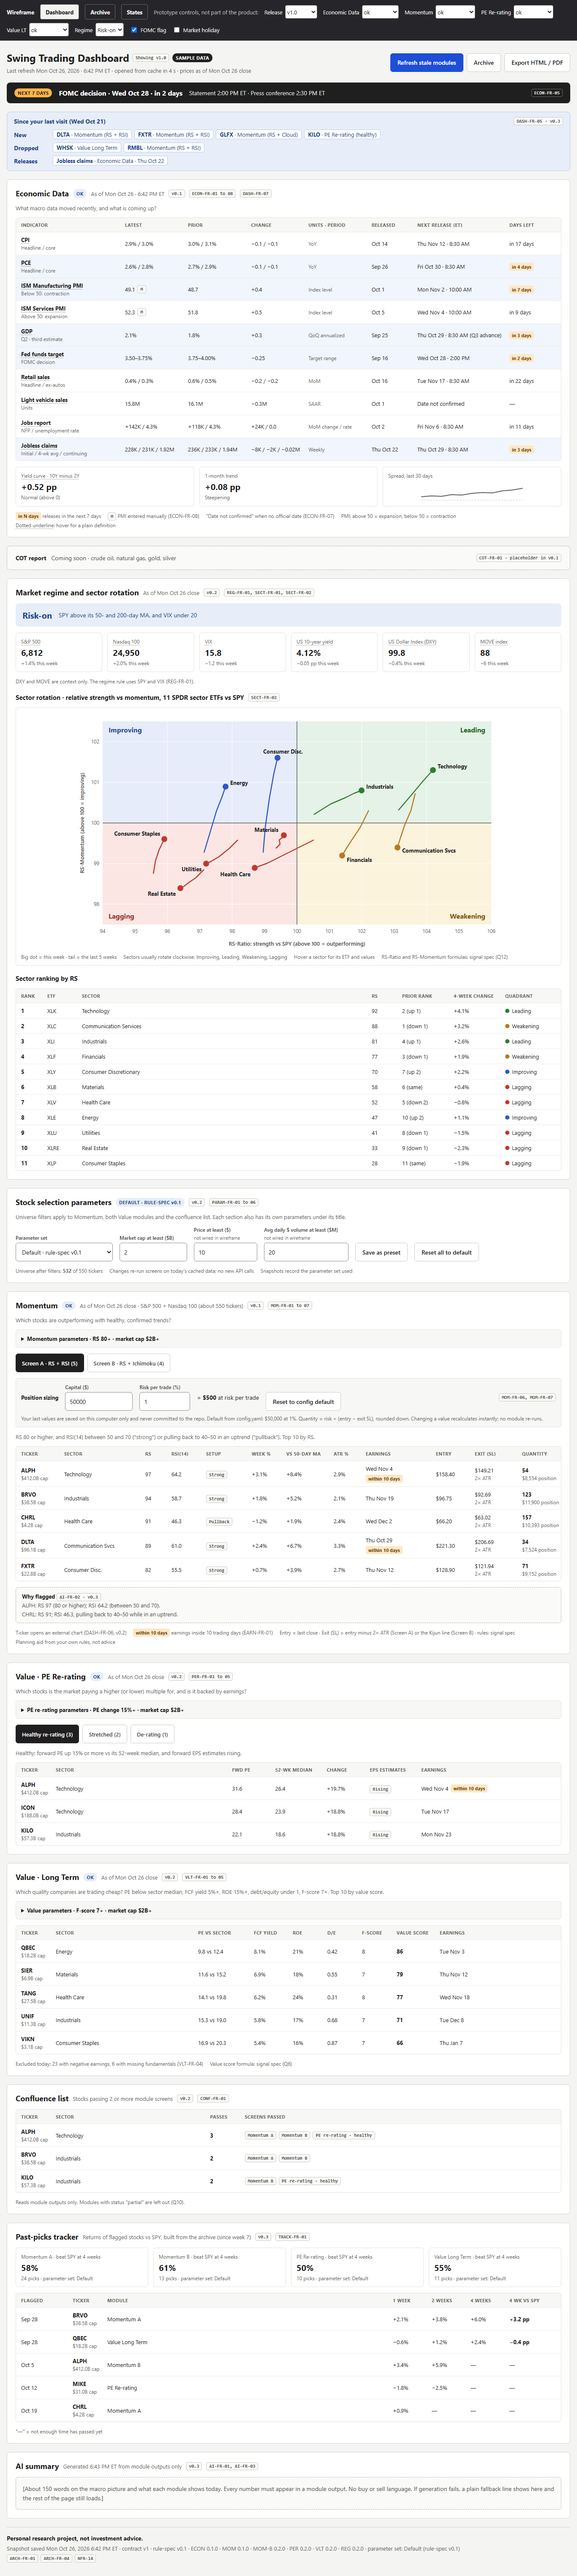
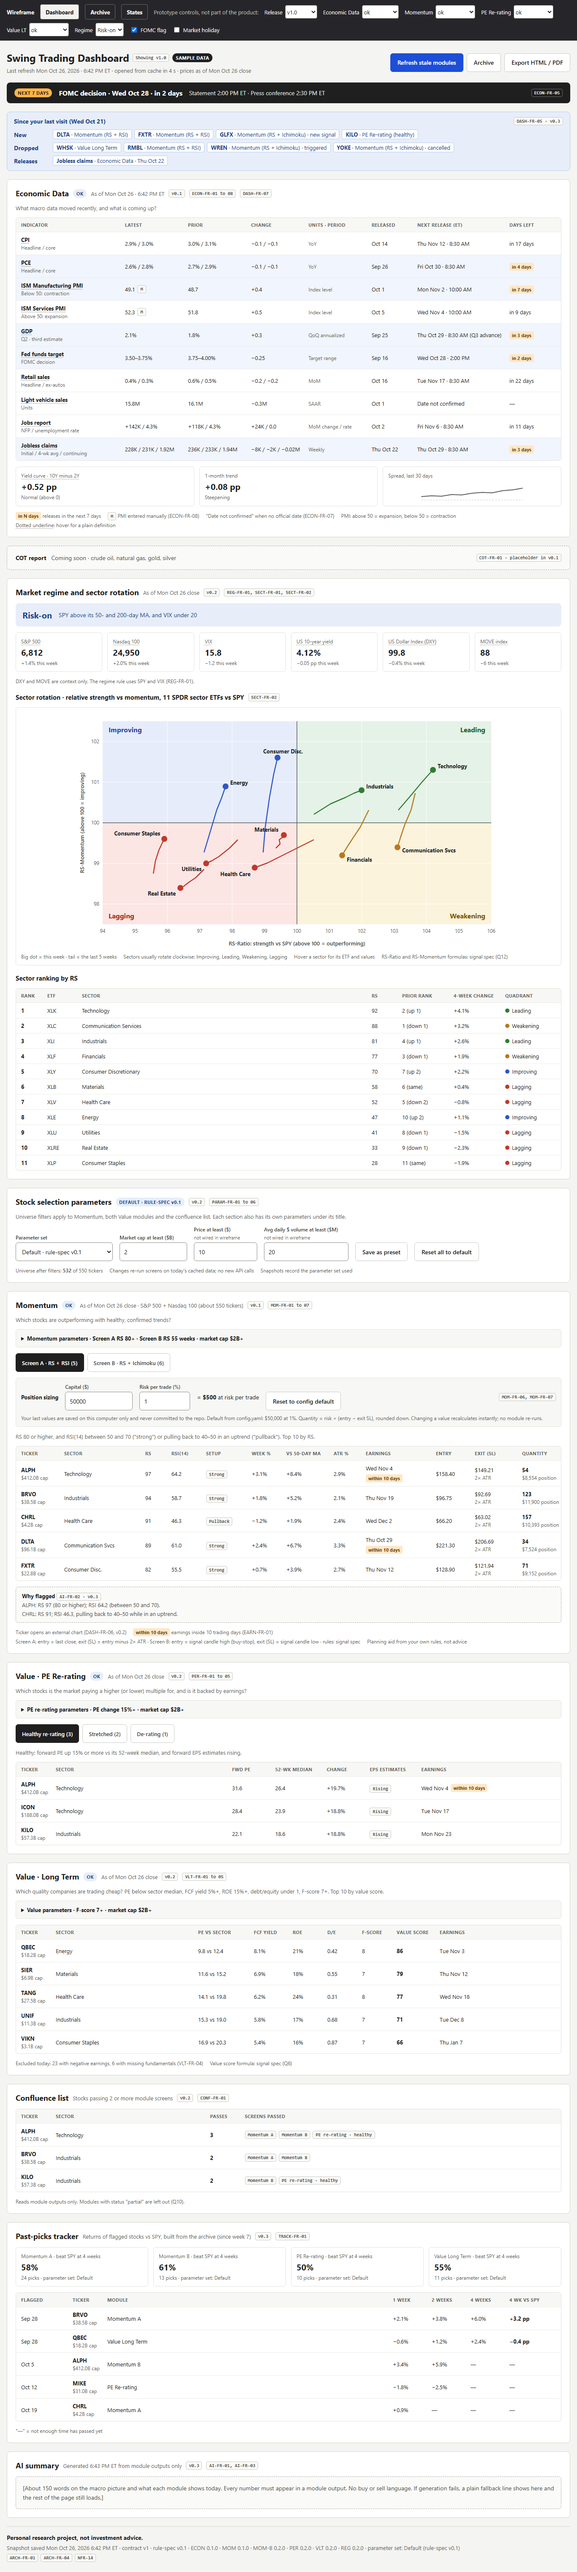
docs: update wireframe Screen B to signal spec 4 (#12)

diff --git a/docs/wireframes/prototype.html b/docs/wireframes/prototype.html
@@ -114,7 +114,6 @@ a{color:#1D4ED8}a:hover{color:#1E3A8A}
   var QCOL = { Leading: '#2E7D32', Weakening: '#B7791F', Improving: '#2F56C6', Lagging: '#C0392B' };
   var CAPS = { ALPH: 412, BRVO: 38.5, CHRL: 4.2, DLTA: 96.1, ECHO: 1.6, FXTR: 22.8, GLFX: 2.4, KILO: 57.3, ICON: 188, MIKE: 31.0, NOVA: 14.7, OSCR: 9.6, PAPA: 1.4, QBEC: 18.2, SIER: 6.9, TANG: 27.5, UNIF: 11.3, VIKN: 3.1 };
   var ENTRY = { ALPH: 158.40, BRVO: 96.75, CHRL: 66.20, DLTA: 221.30, ECHO: 50.60, FXTR: 128.90, GLFX: 74.10, KILO: 112.50 };
-  var KIJUN = { ALPH: 147.60, BRVO: 91.20, GLFX: 69.85, KILO: 105.30 };
   var MOM_A = [
     { t: 'ALPH', sector: 'Technology', rs: 97, rsi: '64.2', tag: 'Strong', wk: '+3.1%', ma: '+8.4%', atr: 2.9, earn: 'Wed Nov 4', soon: true },
     { t: 'BRVO', sector: 'Industrials', rs: 94, rsi: '58.7', tag: 'Strong', wk: '+1.8%', ma: '+5.2%', atr: 2.1, earn: 'Thu Nov 19', soon: false },
@@ -123,12 +122,22 @@ a{color:#1D4ED8}a:hover{color:#1E3A8A}
     { t: 'ECHO', sector: 'Financials', rs: 86, rsi: '44.8', tag: 'Pullback', wk: '−0.9%', ma: '+1.1%', atr: 1.8, earn: 'Fri Jan 15', soon: false },
     { t: 'FXTR', sector: 'Consumer Disc.', rs: 82, rsi: '55.5', tag: 'Strong', wk: '+0.7%', ma: '+3.9%', atr: 2.7, earn: 'Thu Nov 12', soon: false }
   ];
+  // Screen B: weekly signal candles (Spec 4). Last completed week = Fri Oct 23.
   var MOM_B = [
-    { t: 'ALPH', sector: 'Technology', rs: 97, brk: 'Fresh · 3 days ago', earn: 'Wed Nov 4', soon: true },
-    { t: 'BRVO', sector: 'Industrials', rs: 94, brk: '—', earn: 'Thu Nov 19', soon: false },
-    { t: 'GLFX', sector: 'Materials', rs: 88, brk: 'Fresh · 1 day ago', earn: 'Tue Nov 10', soon: false },
-    { t: 'KILO', sector: 'Industrials', rs: 84, brk: '—', earn: 'Mon Nov 23', soon: false }
+    { t: 'ALPH', sector: 'Technology', status: 'Pending', wk: 'Oct 16', pend: 1, rs: 1.142, rsPrev: 0.996, rsCross: 'Oct 16', close: 158.40, cl: 151.90, hi: 160.20, lo: 149.80, earn: 'Wed Nov 4', soon: true },
+    { t: 'NOVA', sector: 'Technology', status: 'New', wk: 'Oct 23', pend: 0, rs: 1.031, rsPrev: 1.004, rsCross: 'Oct 16', close: 47.90, cl: 46.10, hi: 48.60, lo: 45.20, earn: 'Wed Dec 9', soon: false },
+    { t: 'KILO', sector: 'Industrials', status: 'New', wk: 'Oct 23', pend: 0, rs: 1.098, rsPrev: 0.987, rsCross: 'Oct 23', close: 112.50, cl: 108.40, hi: 114.60, lo: 106.90, earn: 'Mon Nov 23', soon: false },
+    { t: 'BRVO', sector: 'Industrials', status: 'Pending', wk: 'Oct 9', pend: 2, rs: 1.012, rsPrev: 0.991, rsCross: 'Oct 9', close: 96.75, cl: 94.30, hi: 98.40, lo: 92.10, earn: 'Thu Nov 19', soon: false },
+    { t: 'GLFX', sector: 'Materials', status: 'New', wk: 'Oct 23', pend: 0, rs: 1.067, rsPrev: 0.982, rsCross: 'Oct 23', close: 74.10, cl: 71.60, hi: 75.90, lo: 70.20, earn: 'Tue Nov 10', soon: false },
+    { t: 'SIER', sector: 'Materials', status: 'Pending', wk: 'Oct 16', pend: 1, rs: 1.020, rsPrev: 0.994, rsCross: 'Oct 16', close: 40.10, cl: 39.20, hi: 41.30, lo: 38.60, earn: 'Thu Nov 12', soon: false }
   ];
+  // group by sector (sector with the highest-RS stock first), RS high to low within each sector
+  function groupBySector(rows) {
+    var g = {};
+    rows.forEach(function (x) { (g[x.sector] = g[x.sector] || []).push(x); });
+    return Object.keys(g).map(function (k) { return { sector: k, rows: g[k].sort(function (a, b) { return b.rs - a.rs; }) }; })
+      .sort(function (a, b) { return b.rows[0].rs - a.rows[0].rs; });
+  }
   var PER = {
     healthy: { label: 'Healthy re-rating', rule: function (t) { return 'Healthy: forward PE up ' + t + '% or more vs its 52-week median, and forward EPS estimates rising.'; }, rows: [
       { t: 'ALPH', sector: 'Technology', pe: '31.6', med: '26.4', chg: 19.7, eps: 'Rising', earn: 'Wed Nov 4', soon: true },
@@ -222,8 +231,8 @@ a{color:#1D4ED8}a:hover{color:#1E3A8A}
     var errs = [];
     if (!capOk) errs.push('Enter a capital amount above $0.');
     if (!riskOk) errs.push('Risk per trade must be between 0.25% and 3%.');
-    function size(x, entry, sl, basis) {
-      var o = { entry: money(entry), sl: money(sl), basis: basis, qty: '—', pos: '', over: false };
+    function size(x, entry, sl, basis, ebasis) {
+      var o = { entry: money(entry), ebasis: ebasis || '', sl: money(sl), basis: basis, qty: '—', pos: '', over: false };
       var per = entry - sl;
       if (per <= 0) { o.pos = 'Entry at or below stop'; return o; }
       if (!inputsOk) { o.pos = 'Check sizing inputs'; return o; }
@@ -232,11 +241,11 @@ a{color:#1D4ED8}a:hover{color:#1E3A8A}
       return o;
     }
     function sizeCells(z) {
-      return '<span>' + z.entry + '</span><span class="col"><span>' + z.sl + '</span><span class="sub">' + z.basis + '</span></span>' +
+      return (z.ebasis ? '<span class="col"><span>' + z.entry + '</span><span class="sub">' + z.ebasis + '</span></span>' : '<span>' + z.entry + '</span>') + '<span class="col"><span>' + z.sl + '</span><span class="sub">' + z.basis + '</span></span>' +
         '<span class="col"><strong>' + z.qty + '</strong><span class="sub">' + z.pos + '</span>' + when(z.over, '<span class="pill">exceeds capital</span>') + '</span>';
     }
     var momA = MOM_A.filter(function (x) { return inUni(x) && x.rs >= rsMin; });
-    var momB = MOM_B.filter(function (x) { return inUni(x) && x.rs >= rsMin; });
+    var momB = MOM_B.filter(inUni);
     var cur = S.momTab === 'B' ? momB : momA;
     function perFilter(rows) { return rows.filter(function (x) { return inUni(x) && Math.abs(x.chg) >= perThr; }); }
     var perRows = perFilter(PER[S.perTab].rows);
@@ -258,8 +267,8 @@ a{color:#1D4ED8}a:hover{color:#1E3A8A}
     h += when(v3, '<div style="display:flex;flex-direction:column;gap:10px;background:#E7EEF9;border:1px solid #B9CBEB;border-radius:8px;padding:12px 16px;font-size:14px;color:#1D3F8A">' +
       '<div class="row" style="gap:8px 16px"><strong>Since your last visit (Wed Oct 21)</strong>' + tag('DASH-FR-05 · v0.3', 'margin-left:auto') + '</div>' +
       '<div style="display:grid;grid-template-columns:80px minmax(0,1fr);gap:8px 12px;align-items:start">' +
-      '<strong style="padding-top:3px">New</strong><span class="row"><span class="wn"><strong>DLTA</strong> · Momentum (RS + RSI)</span><span class="wn"><strong>FXTR</strong> · Momentum (RS + RSI)</span><span class="wn"><strong>GLFX</strong> · Momentum (RS + Cloud)</span><span class="wn"><strong>KILO</strong> · PE Re-rating (healthy)</span></span>' +
-      '<strong style="padding-top:3px">Dropped</strong><span class="row"><span class="wn"><strong>WHSK</strong> · Value Long Term</span><span class="wn"><strong>RMBL</strong> · Momentum (RS + RSI)</span></span>' +
+      '<strong style="padding-top:3px">New</strong><span class="row"><span class="wn"><strong>DLTA</strong> · Momentum (RS + RSI)</span><span class="wn"><strong>FXTR</strong> · Momentum (RS + RSI)</span><span class="wn"><strong>GLFX</strong> · Momentum (RS + Ichimoku) · new signal</span><span class="wn"><strong>KILO</strong> · PE Re-rating (healthy)</span></span>' +
+      '<strong style="padding-top:3px">Dropped</strong><span class="row"><span class="wn"><strong>WHSK</strong> · Value Long Term</span><span class="wn"><strong>RMBL</strong> · Momentum (RS + RSI)</span><span class="wn"><strong>WREN</strong> · Momentum (RS + Ichimoku) · triggered</span><span class="wn"><strong>YOKE</strong> · Momentum (RS + Ichimoku) · cancelled</span></span>' +
       '<strong style="padding-top:3px">Releases</strong><span class="row"><span class="wn"><strong>Jobless claims</strong> · Economic Data · Thu Oct 22</span></span></div></div>');
 
     // economic data
@@ -327,15 +336,16 @@ a{color:#1D4ED8}a:hover{color:#1E3A8A}
 
     // momentum
     var MC = 'minmax(60px,0.7fr) minmax(130px,1.4fr) 50px 70px 96px 70px 100px 64px minmax(130px,1.2fr) 80px 100px 110px';
-    var BC = '70px minmax(140px,1.4fr) 50px 1fr 1fr 1fr 1.1fr minmax(120px,1.1fr) 80px 100px 110px';
+    var BC = '80px 100px 80px minmax(170px,1.3fr) minmax(150px,1.2fr) 80px minmax(150px,1fr) 100px 100px 110px';
     var momAvail = !mom.unavailable;
     var showFew = momAvail && (S.momTab === 'A' || v2) && (mom.few || (mom.table && cur.length < 3));
     h += '<section class="card" id="mom"><div class="sh"><h2 class="st">Momentum</h2>' + mom.chip + '<span class="meta">As of ' + asOf + ' · S&amp;P 500 + Nasdaq 100 (about 550 tickers)</span>' + tag('v0.1') + tag('MOM-FR-01 to 07') + '</div>' +
       '<p class="q">Which stocks are outperforming with healthy, confirmed trends?</p>' +
-      when(v2, details('mom', 'Momentum parameters · RS ' + rsMin + '+ · market cap $' + minCap + 'B+',
-        field('RS rating at least', 'rsMin', 'type="number" min="1" max="99" step="1"', 120) +
-        field('RSI strong band', '50–70', 'type="text"', 120, true) + field('RSI pullback band', '40–50', 'type="text"', 120, true) +
-        field('Screen B breakout window (days)', '5', 'type="number"', 120, true) + field('Show top', '10', 'type="number"', 100, true) +
+      when(v2, details('mom', 'Momentum parameters · Screen A RS ' + rsMin + '+ · Screen B RS 55 weeks · market cap $' + minCap + 'B+',
+        field('Screen A · RS rating at least', 'rsMin', 'type="number" min="1" max="99" step="1"', 120) +
+        field('Screen A · RSI strong band', '50–70', 'type="text"', 120, true) + field('Screen A · RSI pullback band', '40–50', 'type="text"', 120, true) +
+        field('Screen A · show top', '10', 'type="number"', 100, true) +
+        field('Screen B · RS length (weeks)', '55', 'type="number" min="10" step="1"', 120, true) +
         '<button class="btn" type="button">Apply · re-run from cached prices</button>')) +
       when(v2 && momAvail && S.regime === 'Risk-off', '<div class="warn"><strong>Risk-off market.</strong> Momentum setups fail more often when the market is weak. ' + tag('REG-FR-02') + '</div>') +
       when(mom.partial, '<div class="warn"><strong>Partial:</strong> 512 of 550 tickers fetched (93%, below the 95% threshold). Lists may be missing stocks, and this module is left out of the confluence list.</div>') +
@@ -363,19 +373,29 @@ a{color:#1D4ED8}a:hover{color:#1E3A8A}
             return '<div class="tr" style="grid-template-columns:' + MC + '">' + tickerCell(x.t) + '<span>' + x.sector + '</span><span>' + x.rs + '</span><span>' + x.rsi + '</span><span>' + tag(x.tag) + '</span><span>' + x.wk + '</span><span>' + x.ma + '</span><span>' + x.atr.toFixed(1) + '%</span>' + earnCell(x, v2) + sizeCells(z) + '</div>';
           }).join('') + '</div></div>';
       } else if (mom.table && S.momTab === 'B' && v2) {
-        h += '<p class="q">RS ' + rsMin + ' or higher, close above the cloud, Tenkan above Kijun, and the cloud ahead is green. Breakout flag = closed above the cloud in the last 5 trading days.</p>' +
-          '<div class="scroll"><div style="min-width:1240px"><div class="tr th" style="grid-template-columns:' + BC + '"><span>Ticker</span><span>Sector</span><span>RS</span><span>Close vs cloud</span><span>Tenkan vs Kijun</span><span>Cloud ahead</span><span>Breakout</span><span>Earnings</span><span>Entry</span><span>Exit (SL)</span><span>Quantity</span></div>' +
-          momB.map(function (x) {
-            var z = size(x, ENTRY[x.t], KIJUN[x.t], 'Kijun line');
-            return '<div class="tr" style="grid-template-columns:' + BC + '">' + tickerCell(x.t) + '<span>' + x.sector + '</span><span>' + x.rs + '</span><span>Above</span><span>Tenkan above</span><span>Green</span><span>' + x.brk + '</span>' + earnCell(x, v2) + sizeCells(z) + '</div>';
-          }).join('') + '</div></div>';
+        h += '<p class="q">Weekly screen on the last completed week (ending Fri Oct 23). A <strong>signal candle</strong> is a week where RS(55) vs the S&amp;P 500 crossed above 1 (that week or the week before) and the weekly close crossed above the <span class="def" title="Ichimoku Conversion Line (Tenkan-sen): (highest high + lowest low) ÷ 2 over the last 9 weeks.">Conversion Line</span>. A signal stays listed until a weekly high reaches the entry (Triggered) or a weekly close below the Conversion Line cancels it. Grouped by sector, strongest sector first.</p>' +
+          '<div class="scroll"><div style="min-width:1240px"><div class="tr th" style="grid-template-columns:' + BC + '"><span>Ticker</span><span>Status</span><span>Signal week</span><span>RS(55)</span><span>Close vs Conv. Line</span><span>To entry</span><span>Earnings</span><span>Entry</span><span>Exit (SL)</span><span>Quantity</span></div>' +
+          groupBySector(momB).map(function (g) {
+            return '<div class="tr" style="grid-template-columns:1fr;background:#F7F7F5"><strong>' + g.sector + ' <span class="sub">· ' + g.rows.length + ' signal' + (g.rows.length === 1 ? '' : 's') + '</span></strong></div>' +
+              g.rows.map(function (x) {
+                var z = size(x, x.hi, x.lo, 'Signal low', 'Signal high');
+                var st = x.status === 'New' ? '<span class="pill">New</span>' : '<span class="col">' + tag('Pending') + '<span class="sub">' + x.pend + ' week' + (x.pend === 1 ? '' : 's') + '</span></span>';
+                return '<div class="tr" style="grid-template-columns:' + BC + '">' + tickerCell(x.t) + '<span>' + st + '</span><span>' + x.wk + '</span>' +
+                  '<span class="col"><strong>' + x.rs.toFixed(3) + '</strong><span class="sub">crossed ' + x.rsCross + ' · prev ' + x.rsPrev.toFixed(3) + '</span></span>' +
+                  '<span class="col"><span>' + money(x.close) + ' vs ' + money(x.cl) + '</span><span class="sub">+' + ((x.close / x.cl - 1) * 100).toFixed(2) + '% above</span></span>' +
+                  '<span>+' + ((x.hi / x.close - 1) * 100).toFixed(2) + '%</span>' + earnCell(x, v2) + sizeCells(z) + '</div>';
+              }).join('');
+          }).join('') + '</div></div>' +
+          '<div class="legend"><span>Dropped off this week: <strong>WREN</strong> triggered (weekly high reached the entry) · <strong>YOKE</strong> cancelled (closed below the Conversion Line)</span><span>Updates once a week; on weekdays the list stays the same</span><span>Stocks with stale data are left out and listed in warnings</span></div>';
       } else if (S.momTab === 'B' && !v2) {
         h += '<div class="soon"><strong style="color:#1F1F1F">Screen B · RS + Ichimoku</strong><span>Coming soon</span>' + tag('MOM-FR-03 · v0.2', 'margin-left:auto') + '</div>';
       }
       h += when(v3 && mom.table, '<div style="border:1px dashed #A8A8A3;border-radius:6px;padding:12px 14px;font-size:13px;color:#4A4A46;background:#FAFAF8;display:flex;flex-direction:column;gap:4px">' +
-        '<strong style="color:#1F1F1F">Why flagged ' + tag('AI-FR-02 · v0.3') + '</strong><span>ALPH: RS 97 (80 or higher); RSI 64.2 (between 50 and 70).</span><span>CHRL: RS 91; RSI 46.3, pulling back to 40–50 while in an uptrend.</span></div>') +
+        '<strong style="color:#1F1F1F">Why flagged ' + tag('AI-FR-02 · v0.3') + '</strong>' +
+        (S.momTab === 'B' ? '<span>KILO: RS(55) crossed above 1 in the week of Oct 23 (0.987 to 1.098); the weekly close of $112.50 crossed above the Conversion Line ($108.40).</span><span>ALPH: signal from the week of Oct 16 is still pending; no weekly high has reached the $160.20 entry and no close has fallen below the Conversion Line.</span>'
+          : '<span>ALPH: RS 97 (80 or higher); RSI 64.2 (between 50 and 70).</span><span>CHRL: RS 91; RSI 46.3, pulling back to 40–50 while in an uptrend.</span>') + '</div>') +
         '<div class="legend"><span>Ticker opens an external chart (DASH-FR-06, v0.2)</span>' + when(v2, '<span><span class="pill">within 10 days</span> earnings inside 10 trading days (EARN-FR-01)</span>') +
-        '<span>Entry = last close · Exit (SL) = entry minus 2× ATR (Screen A) or the Kijun line (Screen B) · rules: signal spec</span><span>Planning aid from your own rules, not advice</span></div>';
+        '<span>Screen A: entry = last close, exit (SL) = entry minus 2× ATR · Screen B: entry = signal candle high (buy-stop), exit (SL) = signal candle low · rules: signal spec</span><span>Planning aid from your own rules, not advice</span></div>';
     }
     h += '</section>';
 

diff --git a/docs/wireframes/README.md b/docs/wireframes/README.md
@@ -1,11 +1,12 @@
 # Wireframes · Swing Trading Dashboard
 
-A low-fidelity, clickable wireframe of the dashboard. It goes with [PRD v1.1](../03-prd.md) and uses sample data only (the tickers are fictional).
+A low-fidelity, clickable wireframe of the dashboard. It goes with [PRD v1.2](../03-prd.md) and uses sample data only (the tickers are fictional).
 
 | File | What it is |
 | --- | --- |
 | [prototype.html](prototype.html) | Clickable prototype in a single self-contained file. It needs no network or build step: download it and open it in any browser. |
 | [dashboard.png](dashboard.png) | Main page at release v1.0, default parameters, all modules OK |
+| [momentum-screen-b.png](momentum-screen-b.png) | Momentum Screen B (RS + Ichimoku, weekly): New and Pending signals grouped by sector, with entry at the signal candle high and exit at its low ([Spec 4](../04-signal-spec/04-rs-ichimoku.md)) |
 | [archive.png](archive.png) | Snapshot archive: open a past refresh by date |
 | [states.png](states.png) | One section in six states (ok, partial, unavailable, fewer than 3, coming soon, risk-off) |
 
@@ -23,7 +24,7 @@ The dark bar at the top holds the **prototype controls**. They aren't part of th
 These parts of the page itself respond to clicks and typing:
 
 - Momentum Screen A / B tabs and the PE Re-rating list tabs
-- **Stock selection parameters**: market cap at least ($B), plus RS minimum, PE change % and F-score minimum in each section's parameter panel. Tables, tab counts and empty states update as you type.
+- **Stock selection parameters**: market cap at least ($B), plus Screen A's RS minimum, PE change % and F-score minimum in each section's parameter panel. Screen B responds to the market-cap filter only; its RS length field is shown but not wired. Tables, tab counts and empty states update as you type.
 - **Position sizing**: Capital ($) and Risk per trade (%). Entry, Exit (SL) and Quantity recalculate, and positions larger than capital are flagged.
 - Hovering an underlined indicator or market tile shows a plain-language definition.
 - The Archive link and snapshot list
@@ -42,7 +43,7 @@ Fields marked *not wired in wireframe* show the intended control but don't chang
 | Regime banner with DXY and MOVE | REG-FR-01, REG-FR-02 |
 | Sector rotation chart and table | SECT-FR-01, SECT-FR-02 |
 | Stock selection parameters | PARAM-FR-01 to 06 |
-| Momentum screens, entry / exit / quantity, sizing inputs | MOM-FR-01 to 07 |
+| Momentum screens, entry / exit / quantity, sizing inputs | MOM-FR-01 to 07 (Screen B per PRD v1.2 and Spec 4) |
 | Value · PE Re-rating | PER-FR-01 to 05 |
 | Value · Long Term | VLT-FR-01 to 05 |
 | Earnings flags | EARN-FR-01 |
